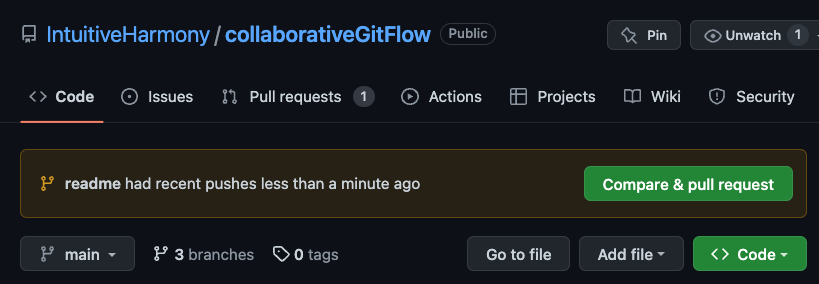
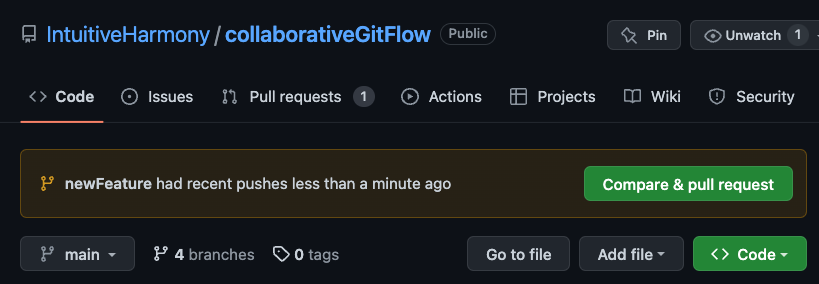
readme - new feature

Changed region(s): [[0.0916, 0.6197, 0.5495, 0.6761], [0.2137, 0.8732, 0.3053, 0.9296], [0.3663, 0.8732, 0.3968, 0.9014]]

diff --git a/README.md b/README.md
@@ -60,7 +60,7 @@ Find your team mates using their gitHub handles or email addresses.  Select each
 
 <br>
 
-This will send and invite to each of the group member's email addresses.  As a collaborator make sure you accept the invite or the owner of the repo will see something like this, until you do.
+This will send and invite to each of the group member's email addresses as well as their gitHub account.  As a collaborator make sure you accept the invite or the owner of the repo will see something like this, until you do.
 
 ![Invite Modal](./images/pendingInvite.png)
 
@@ -176,13 +176,24 @@ While in the main branch in the terminal run:
 git checkout -b newFeature 
 ```
 
-Commit as you normally would while working within your new branch.  Once you are satisfied that the work is complete and your feature is working it is time to do a `pull request`
+Commit as you normally would while working within your new branch.  Once you are satisfied that the work is complete and your feature is working push your work up to gitHub on your `newFeature` branch.  After that it is time to do a `pull request`.
+
+<br>
 
 ## PULL REQUESTS
 
 Usually when someone pushes their code to gitHub there will (usually) be a message saying so and a button `Compare & pull request`  If this button is not there and you are sure that you pushed the code to gitHub.  You can create a new pull request in the `pull request` tab. Both options take you to the same screen.
 
 ![Pull Request](./images/pullREquest.png)
+
+Once you press the `Compare and pull request` button it will take you to an other screen that needs a little attention. 
+
+1. Since `dev` is our staging branch before the `main` branch we need to switch the base to `dev`.  Use the drop down menu on the left. 
+2. You can request a review from someone in your group but it is not necessary.  Besides at the beginning it is beneficial to complete pull requests together.  That way the author can speak to the code if need be.
+3. Press the green button
+
+
+
 
 
 
